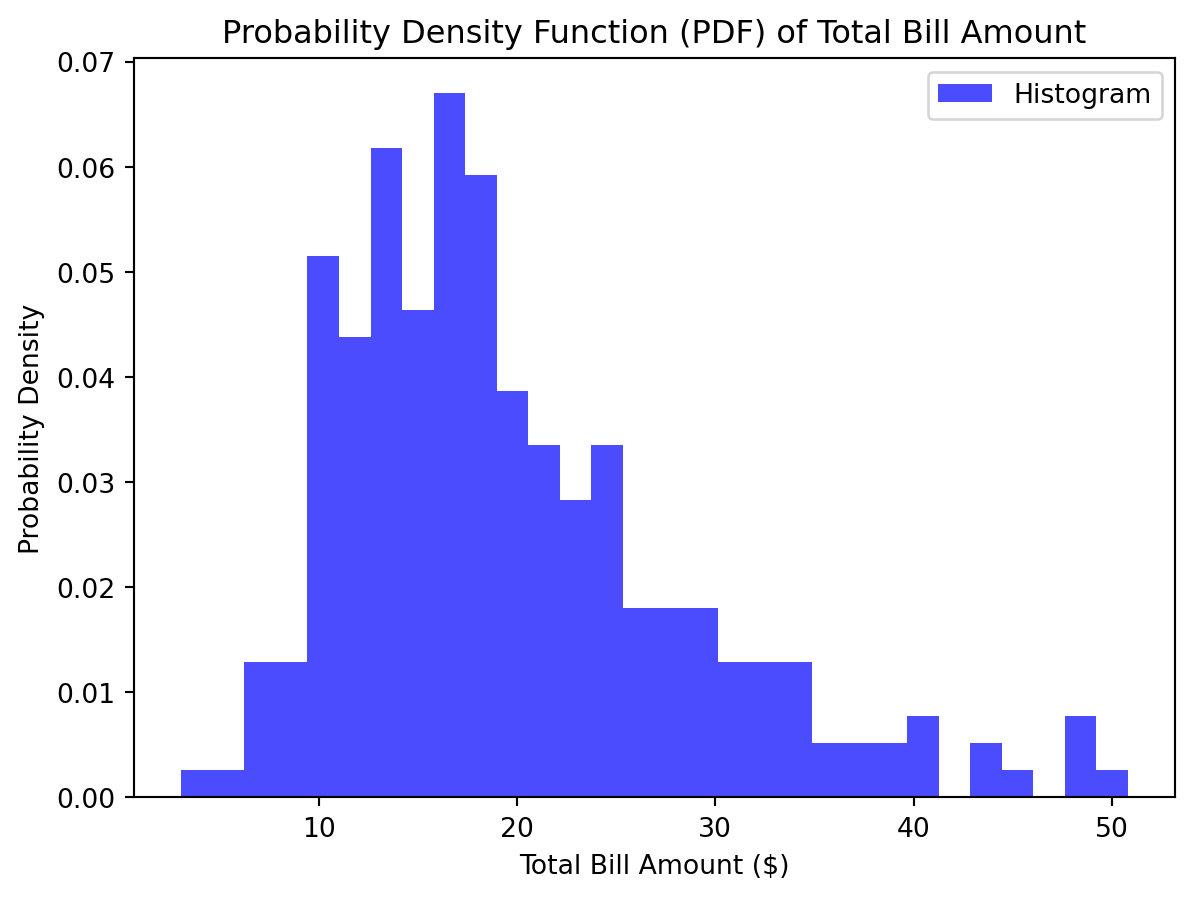
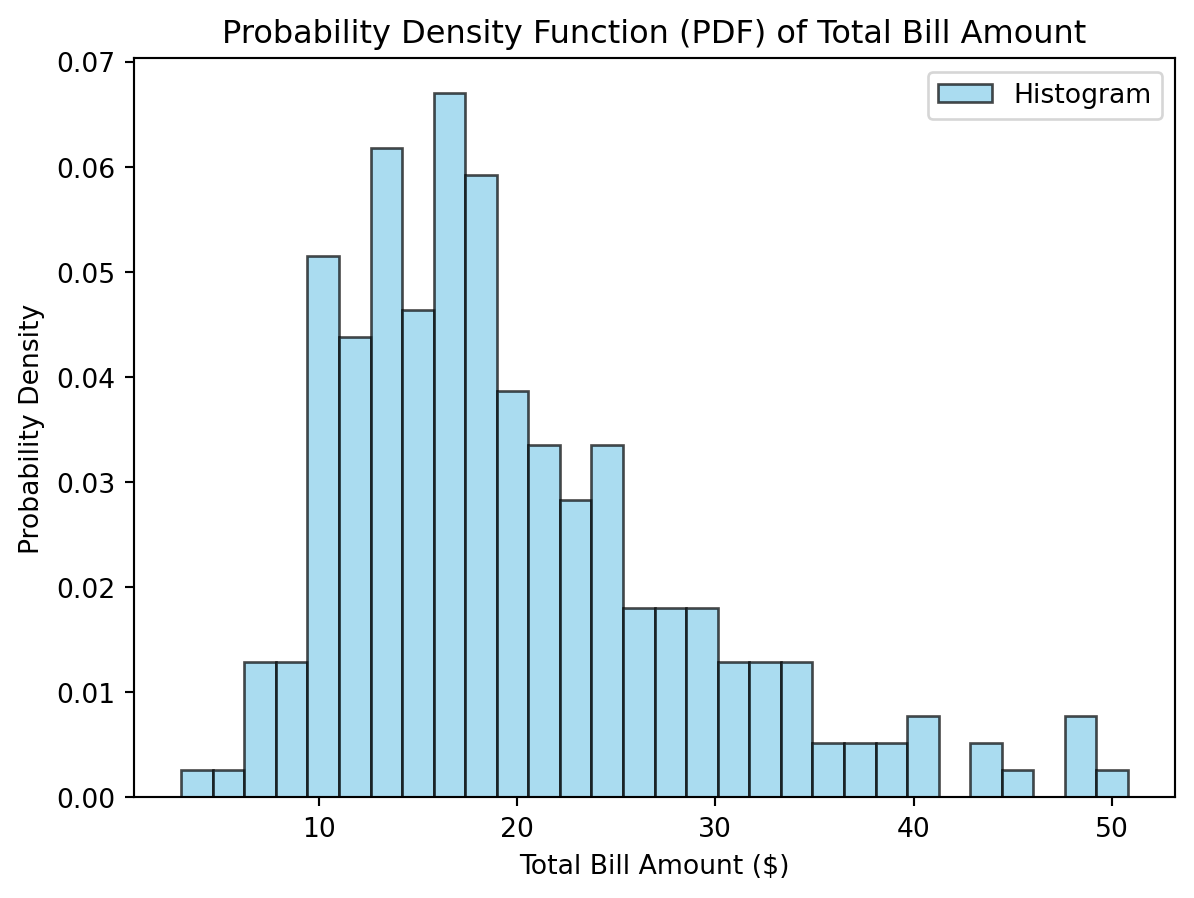
changed histogram styling

Changed region(s): [[0.1549, 0.0935, 0.9606, 0.9042], [0.7747, 0.0935, 0.8367, 0.1247]]

diff --git a/docs/posts/post_1/index.html b/docs/posts/post_1/index.html
@@ -285,7 +285,7 @@ pre > code.sourceCode > span > a:first-child::before { text-decoration: underlin
 <span id="cb3-7"><a href="#cb3-7" aria-hidden="true" tabindex="-1"></a>total_bill_data <span class="op">=</span> tips[<span class="st">'total_bill'</span>]</span>
 <span id="cb3-8"><a href="#cb3-8" aria-hidden="true" tabindex="-1"></a></span>
 <span id="cb3-9"><a href="#cb3-9" aria-hidden="true" tabindex="-1"></a><span class="co"># Create a histogram to estimate the probability density function (PDF)</span></span>
-<span id="cb3-10"><a href="#cb3-10" aria-hidden="true" tabindex="-1"></a>plt.hist(total_bill_data, bins<span class="op">=</span><span class="dv">30</span>, density<span class="op">=</span><span class="va">True</span>, alpha<span class="op">=</span><span class="fl">0.7</span>, color<span class="op">=</span><span class="st">'blue'</span>, label<span class="op">=</span><span class="st">'Histogram'</span>)</span>
+<span id="cb3-10"><a href="#cb3-10" aria-hidden="true" tabindex="-1"></a>plt.hist(total_bill_data, bins<span class="op">=</span><span class="dv">30</span>, density<span class="op">=</span><span class="va">True</span>, alpha<span class="op">=</span><span class="fl">0.7</span>, color<span class="op">=</span><span class="st">'skyblue'</span>, edgecolor <span class="op">=</span> <span class="st">"black"</span>, label<span class="op">=</span><span class="st">'Histogram'</span>)</span>
 <span id="cb3-11"><a href="#cb3-11" aria-hidden="true" tabindex="-1"></a></span>
 <span id="cb3-12"><a href="#cb3-12" aria-hidden="true" tabindex="-1"></a><span class="co"># Plot formatting</span></span>
 <span id="cb3-13"><a href="#cb3-13" aria-hidden="true" tabindex="-1"></a>plt.title(<span class="st">'Probability Density Function (PDF) of Total Bill Amount'</span>)</span>

diff --git a/docs/index.html b/docs/index.html
@@ -316,7 +316,7 @@ Greg Brinson
 </a>
 </div>
 </div>
-<div class="quarto-post image-right" data-index="4" data-categories="news,code,analysis" data-listing-date-sort="1700715600000" data-listing-file-modified-sort="1701833304747" data-listing-date-modified-sort="NaN" data-listing-reading-time-sort="3">
+<div class="quarto-post image-right" data-index="4" data-categories="news,code,analysis" data-listing-date-sort="1700715600000" data-listing-file-modified-sort="1701842266631" data-listing-date-modified-sort="NaN" data-listing-reading-time-sort="3">
 <div class="thumbnail">
 <p><a href="./posts/post_1/index.html"> <p class="card-img-top"><img src="posts\post_1\index_files\figure-html\cell-2-output-1.png"  class="thumbnail-image card-img"/></p> </a></p>
 </div>
